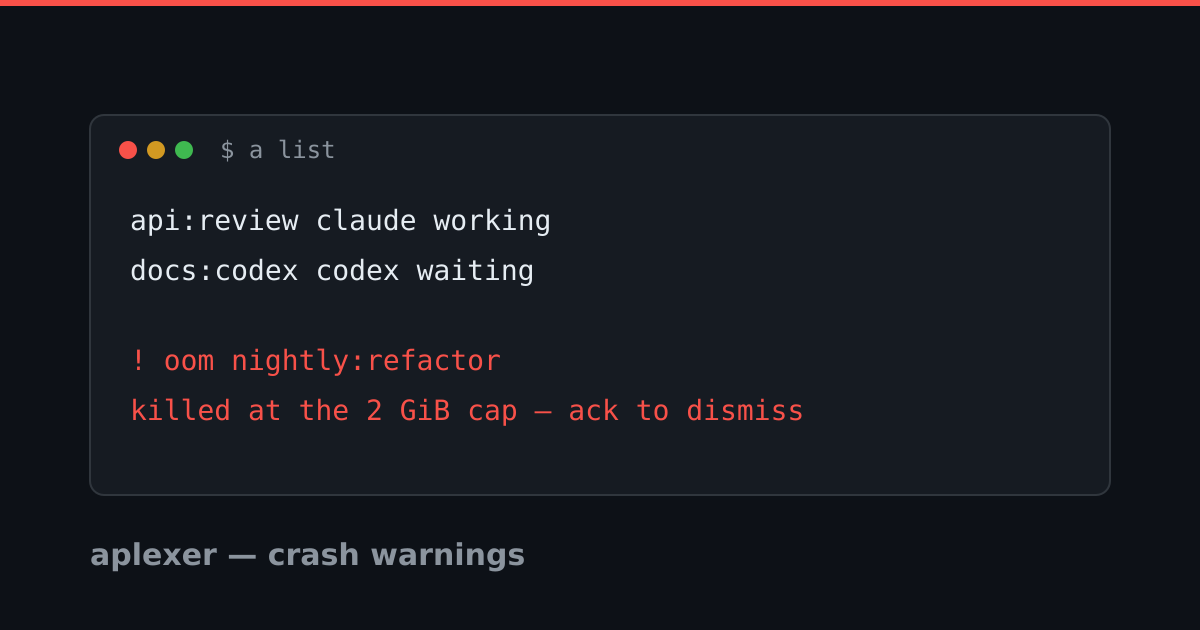
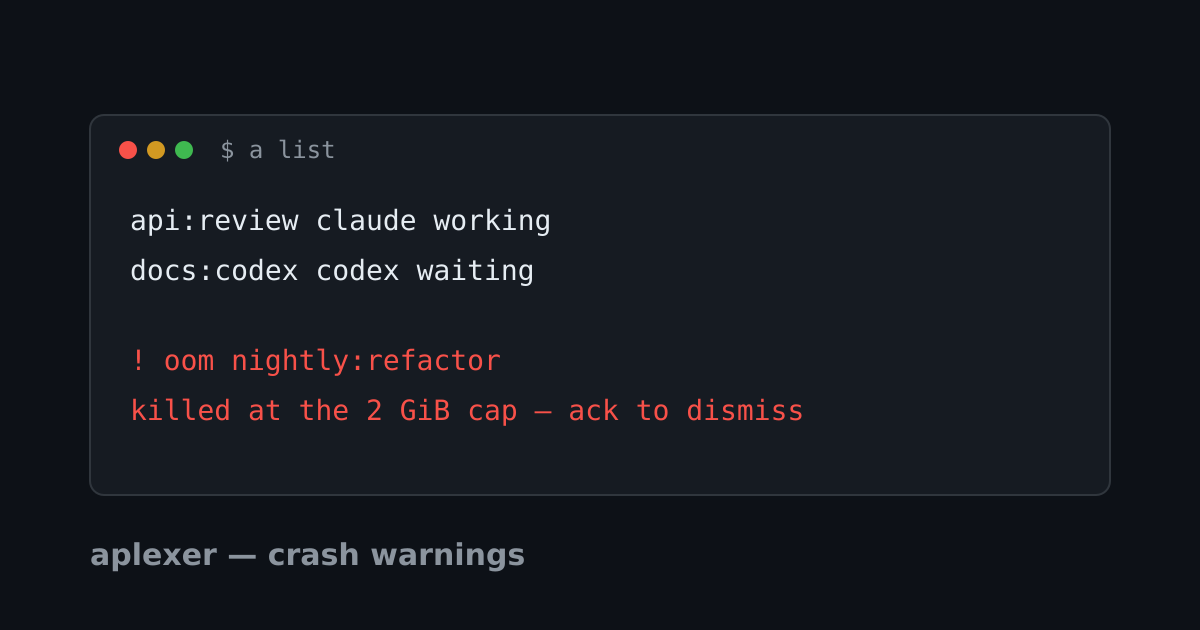
Forbid accent borders in design contract, styles, and CI check (#5)
* feat: forbid accent borders in design contract, styles, and CI check

* Blog cover: remove the red top stripe baked into the crash-warnings artwork (accent borders are forbidden; the CSS lint cannot see pixels)

Changed region(s): [[0.0, 0.0, 1.0, 0.0302]]

diff --git a/landing-design.css b/landing-design.css
@@ -12,7 +12,7 @@ html { scroll-behavior: smooth; }
 .reference-layout, .reference-main, .reference-content { min-width: 0; }
 .reference-landing #security { background: transparent; border-top: 0; }
 .reference-landing .reference-header { line-height: 1.3; }
-.reference-tab.is-active { color: #f3f4f6 !important; font-weight: 600 !important; box-shadow: inset 0 -2px 0 #5fd0ea !important; }
+.reference-tab.is-active { color: #f3f4f6 !important; font-weight: 600 !important; background: rgba(95, 208, 234, 0.08) !important; border-radius: 6px !important; }
 .reference-section-link.is-active { color: #f3f4f6 !important; background: #23272e !important; }
 .reference-section-link.is-active > span:first-child { background: #5fd0ea !important; }
 .reference-sidebar a { min-height: 40px; box-sizing: border-box; }
@@ -90,11 +90,11 @@ html { scroll-behavior: smooth; }
 .reference-landing .ref-hover-17:hover {background:#1c2027 !important;color:#fff !important;}
 .reference-landing .ref-hover-18:hover {background:#1c2027 !important;color:#fff !important;}
 .reference-landing .ref-hover-19:hover {background:#8fe0f2 !important;color:#0b0d10 !important;}
-.reference-landing .ref-hover-20:hover {border-color:#5fd0ea !important;color:#fff !important;}
-.reference-landing .ref-hover-21:hover {border-color:#5fd0ea !important;color:#fff !important;}
-.reference-landing .ref-hover-22:hover {border-color:#5fd0ea !important;color:#fff !important;}
-.reference-landing .ref-hover-23:hover {border-color:#5fd0ea !important;color:#fff !important;}
-.reference-landing .ref-hover-24:hover {border-color:#5fd0ea !important;color:#fff !important;}
+.reference-landing .ref-hover-20:hover {background:#1c2027 !important;border-color:#6e7681 !important;color:#fff !important;}
+.reference-landing .ref-hover-21:hover {background:#1c2027 !important;border-color:#6e7681 !important;color:#fff !important;}
+.reference-landing .ref-hover-22:hover {background:#1c2027 !important;border-color:#6e7681 !important;color:#fff !important;}
+.reference-landing .ref-hover-23:hover {background:#1c2027 !important;border-color:#6e7681 !important;color:#fff !important;}
+.reference-landing .ref-hover-24:hover {background:#1c2027 !important;border-color:#6e7681 !important;color:#fff !important;}
 .reference-landing .ref-hover-25:hover {background:#15181d !important;color:#fff !important;}
 .reference-landing .ref-hover-26:hover {background:#15181d !important;color:#fff !important;}
 .reference-landing .ref-hover-27:hover {background:#8fe0f2 !important;color:#0b0d10 !important;}

diff --git a/_layouts/landing.html b/_layouts/landing.html
@@ -264,7 +264,7 @@
 <div style="display:flex;flex-wrap:wrap-reverse;gap:40px 64px;align-items:center">
 <div style="flex:1 1 420px;background:#0b0d10;border:1px solid #2a2e35;border-radius:10px;overflow:hidden;font-family:'JetBrains Mono',monospace;font-size:13.5px;line-height:1.7">
 <div style="display:flex;align-items:stretch;height:40px;background:#121418;border-bottom:1px solid #1f2329;font-family:'IBM Plex Sans',sans-serif;font-size:13.5px">
-<span style="display:flex;align-items:center;padding:0 16px;color:#f3f4f6;font-weight:600;box-shadow:inset 0 -2px 0 #5fd0ea;white-space:nowrap">◎ api-fix</span>
+<span style="display:flex;align-items:center;padding:0 16px;color:#f3f4f6;font-weight:600;background:rgba(95,208,234,0.08);border-radius:4px;white-space:nowrap">◎ api-fix</span>
 <span style="display:flex;align-items:center;padding:0 16px;color:#8a909a">edge-1</span>
 </div>
 <div style="padding:18px 22px 20px">
@@ -428,7 +428,7 @@
 </div>
 
 <div style="padding:14px">
-<input autocomplete="email" id="signup-email" inputmode="email" name="email" placeholder="you@example.com" required="" style="width:100%;box-sizing:border-box;background:#0e1013;color:#e4e6ea;border:2px solid #5fd0ea;border-radius:8px;padding:14px;font-family:'JetBrains Mono',monospace;font-size:14px;outline:none" type="email"/>
+<input autocomplete="email" id="signup-email" inputmode="email" name="email" placeholder="you@example.com" required="" style="width:100%;box-sizing:border-box;background:#0e1013;color:#e4e6ea;border:1px solid #33383f;border-radius:8px;padding:14px;font-family:'JetBrains Mono',monospace;font-size:14px;outline:none" type="email"/>
 </div>
 <div style="display:flex;align-items:center;gap:12px;padding:0 14px 14px 16px">
 <span style="flex:1;font-size:12.5px;line-height:1.5;color:#7a808a">Launch updates only. Confirmation from hello@pocketshell.io. Doesn’t grant alpha access.</span>

diff --git a/style.css b/style.css
@@ -157,12 +157,12 @@ input {
 }
 .button.primary {
   background: var(--accent);
-  border-color: var(--accent);
+  border-color: transparent;
   color: #04101a;
 }
 .button.primary:hover {
   background: #8fe0f2;
-  border-color: #8fe0f2;
+  border-color: transparent;
 }
 .button.large {
   min-height: 52px;
@@ -1097,7 +1097,7 @@ body{-webkit-font-smoothing:antialiased}
 .site-nav{gap:0;align-self:stretch;align-items:stretch}
 .nav-link{padding:0 15px;font-size:15px;color:#8a909a;min-height:56px}
 .nav-link:hover{color:#f3f4f6;text-decoration:none;background:#15181d}
-.nav-link[aria-current=page]{color:#f3f4f6;font-weight:500;box-shadow:inset 0 -2px 0 #5fd0ea}
+.nav-link[aria-current=page]{color:#5fd0ea;font-weight:600;background:rgba(95,208,234,0.08);border-radius:6px}
 .topbar-actions{display:flex;align-items:center;gap:10px;flex-shrink:0}
 .topbar-signin{color:#c9cdd3;font-size:14px;text-decoration:none;min-height:44px;display:inline-flex;align-items:center;padding-inline:12px}
 .topbar-signin:hover{color:#fff}

diff --git a/blog.css b/blog.css
@@ -112,9 +112,11 @@ main {
   font-size: 13px;
 }
 .prose blockquote {
-  border-left: 2px solid var(--accent);
+  background: rgba(95, 208, 234, 0.05);
+  border: 1px solid var(--rule);
+  border-radius: 8px;
   margin: 24px 0;
-  padding: 0 24px;
+  padding: 16px 24px;
   color: var(--muted);
 }
 .prose img {

diff --git a/docs/design-contract.md b/docs/design-contract.md
@@ -15,6 +15,24 @@ The homepage workspace remains the actual copied Vue/xterm desktop renderer. The
 - Radius: 6–7px buttons, 8–10px panels/visuals. Rounded status notation may follow the supplied reference. Do not add ornamental gradients or unrelated decorative colors.
 - The reference's hierarchy governs type scale and spacing. Shared header brand is 17px/600, navigation 15px, action text 14px. Blog/article display uses 600 weight and compact negative tracking; prose remains 17–18px with a generous reading line height.
 
+## Accent borders are forbidden
+
+Accent borders are forbidden across PocketShell websites and shared UI. Status belongs in fills and text, never in borders. An accent border is either of these:
+
+- A border on only one or some sides (`border-left`, `border-right`, `border-top`, `border-bottom`, `border-inline-*`, `border-block-*`, or a `border-width` / `border-color` list that differs per side) used as a colored stripe or side accent.
+- Any border, outline, or `box-shadow` ring whose color is an accent or status color (cyan, green, red, amber, or `--accent*`, `--danger*`, `--warn*`, `--ok*`, `--success*`, `--error*` tokens and their aliases), for example a colored-outline warning or notice box.
+
+Allowed treatments:
+- Full 1px neutral borders using the neutral border tokens (`#23272e` border, `#33383f` elevated border, or equivalent neutral tokens) on cards, inputs, and dividers.
+- A neutral 1px hairline divider between list rows (`border-top` / `border-bottom` with neutral tokens only).
+- Focus-visible outlines for accessibility (`:focus-visible` rules may use the accent color). Pointer focus and drag outlines use neutral colors.
+- Form-control borders that turn neutral-strong on hover.
+
+Replace accent borders with:
+- A tinted background (subtle status-colored fill at low alpha).
+- An icon.
+- A bold heading or label in the status color.
+
 ## Shared page family
 
 The shared header uses the reference’s compact charcoal strip, cyan terminal brand mark, navigation tabs, sign-in action and cyan Open PocketShell button. Desktop chrome is sticky at 56px. Small screens wrap navigation into a readable second row, preserving all destinations and 44px targets. Blog pages do not acquire the homepage’s project navigation rail.
